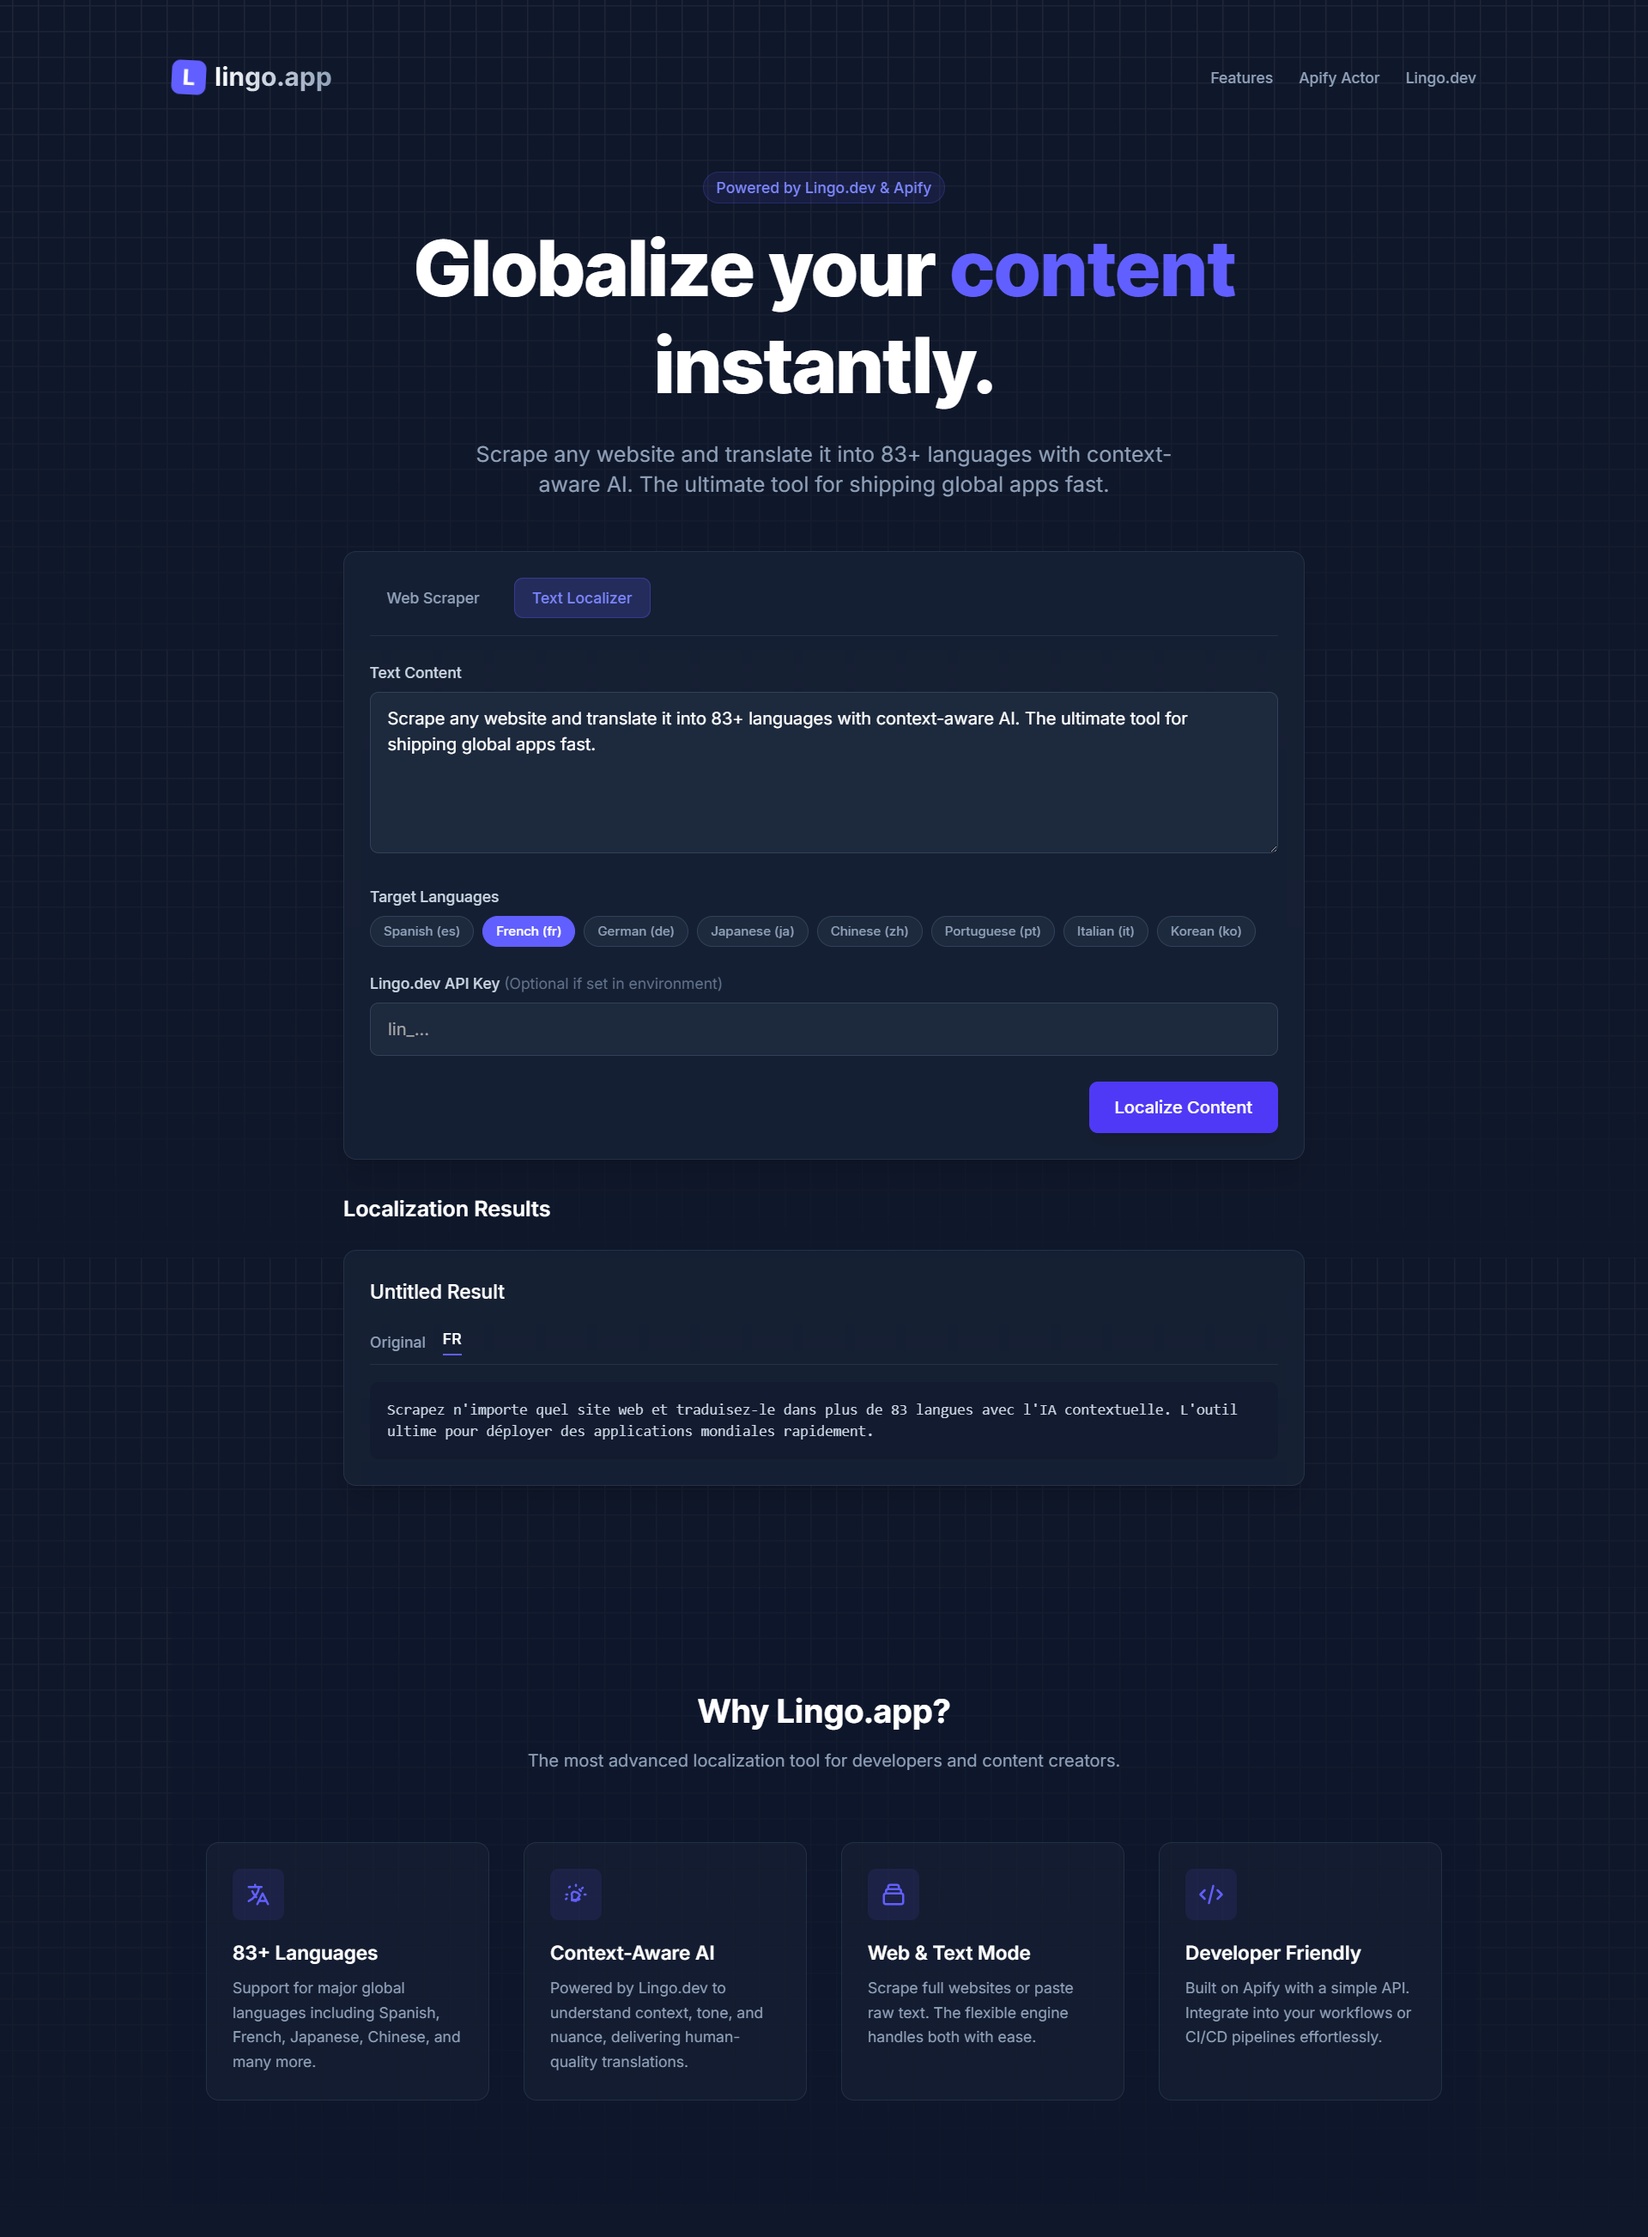
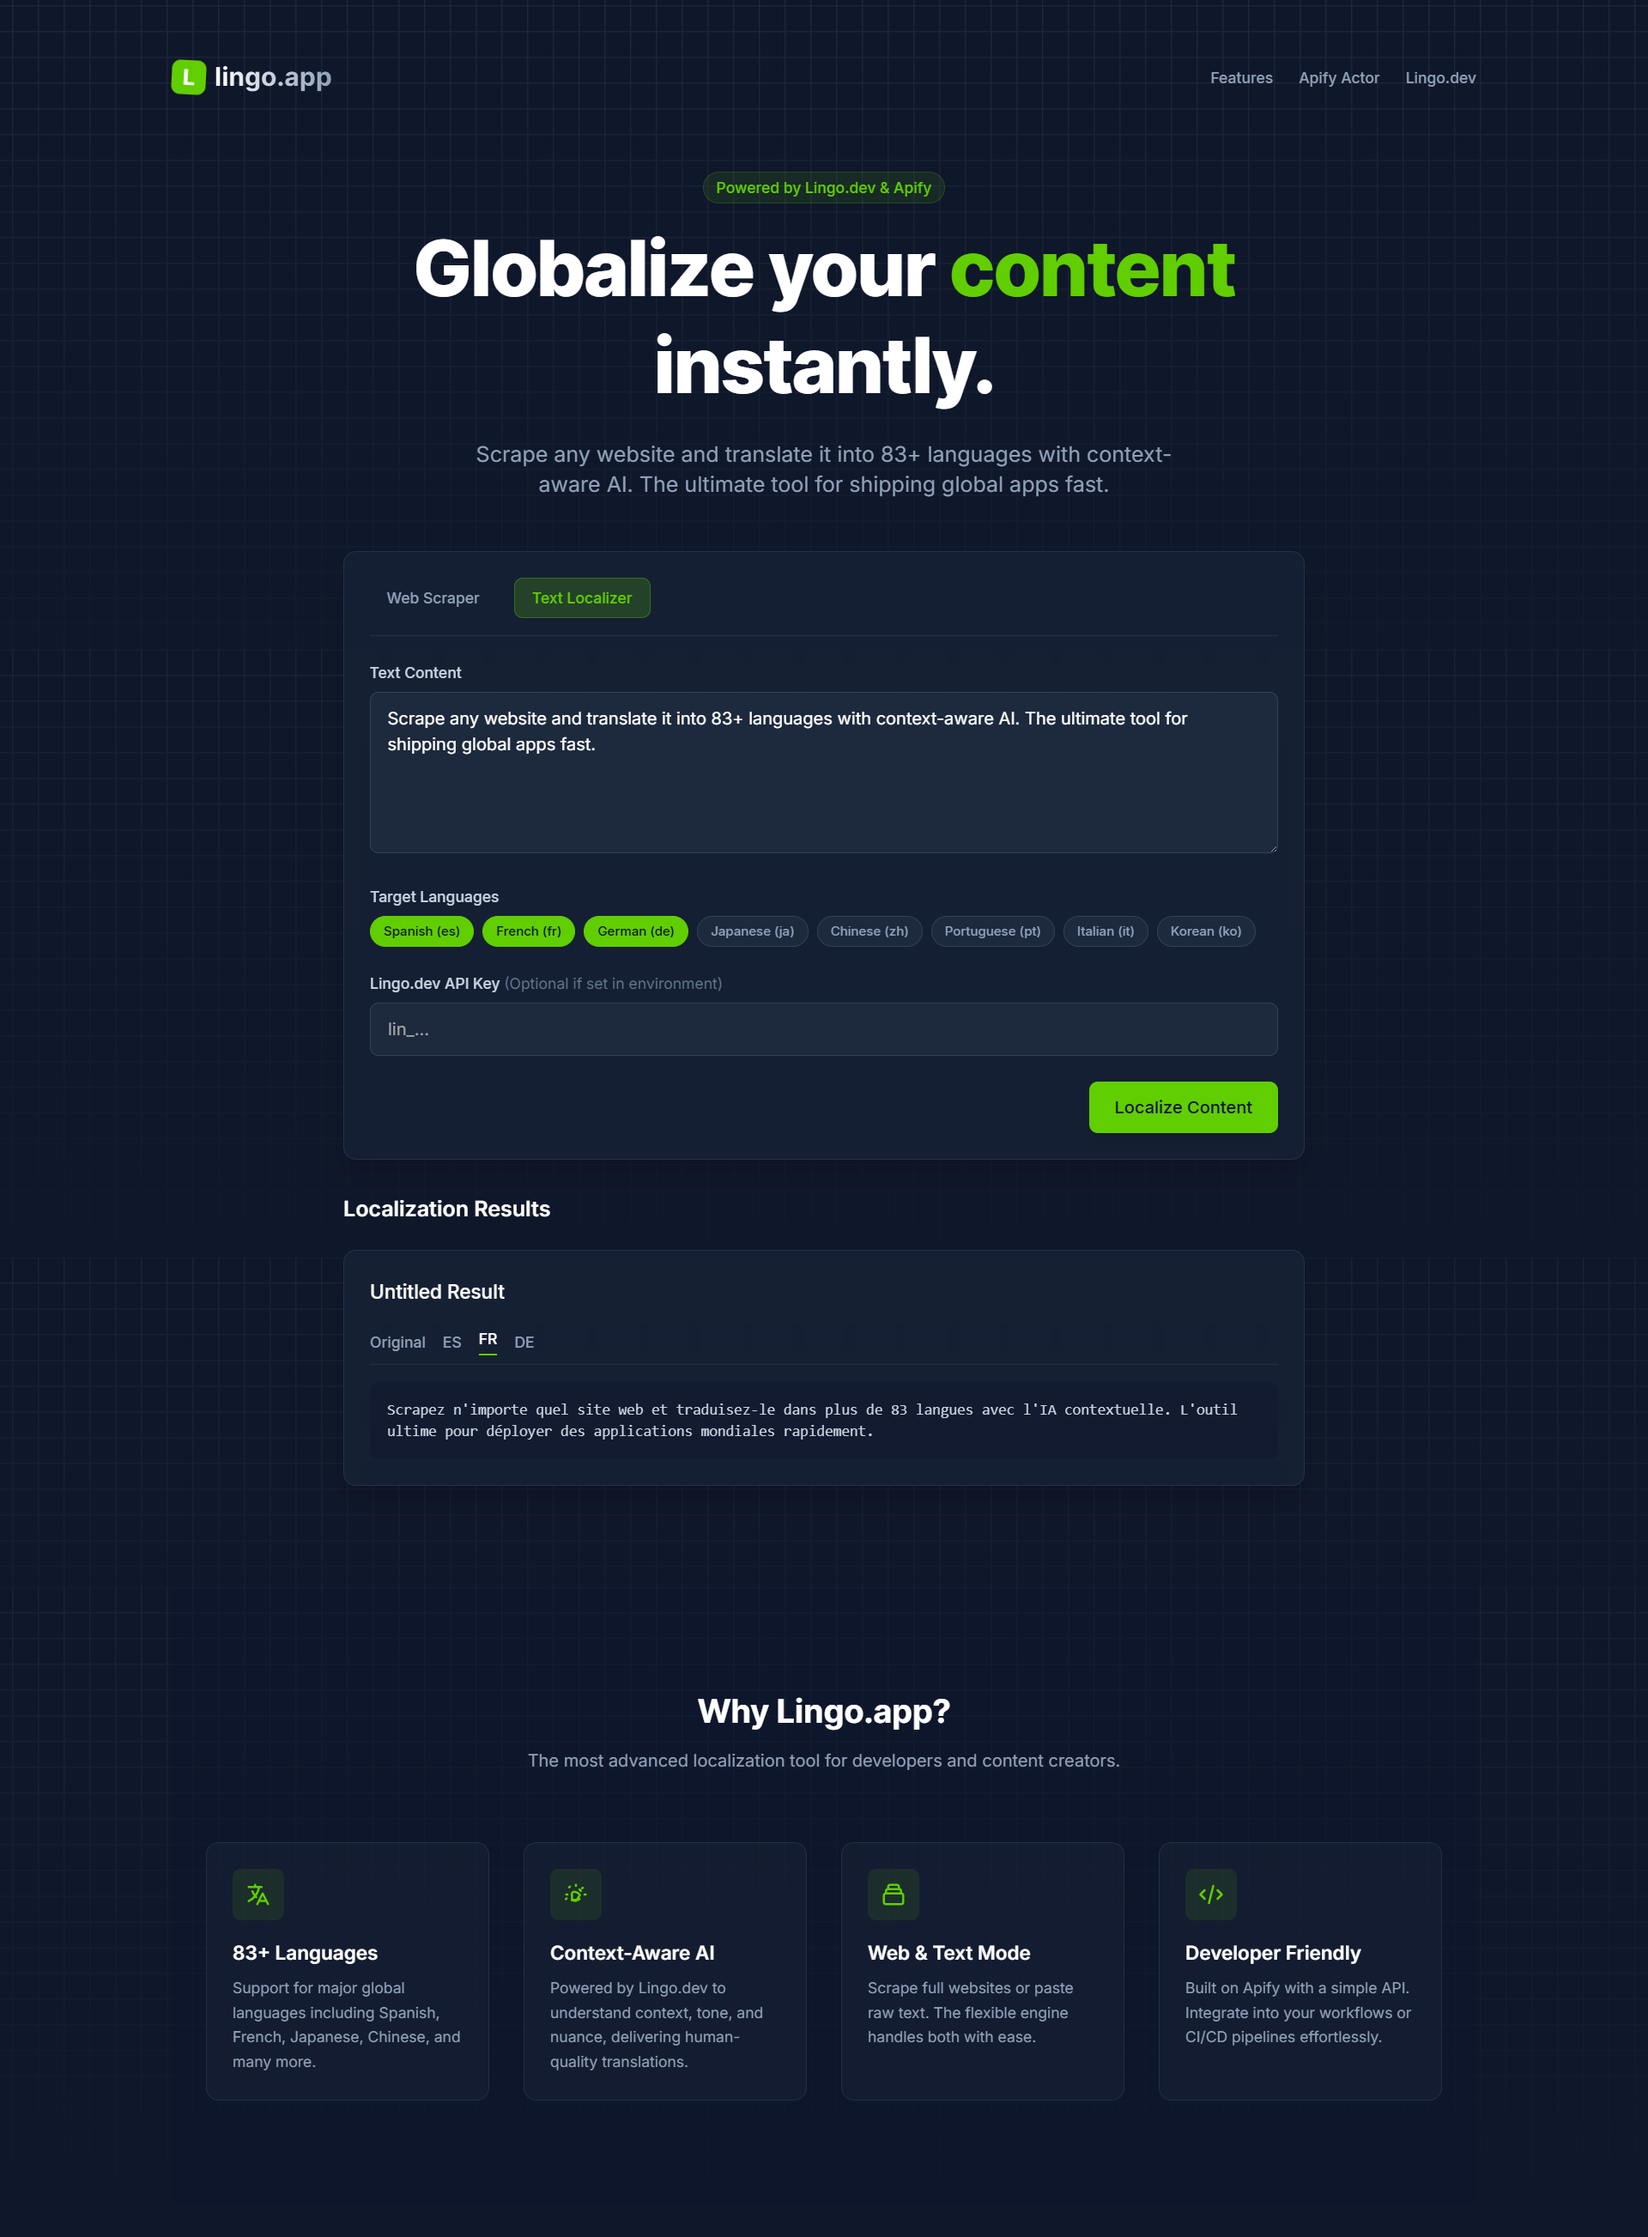
Feat: Update UI to lime

diff --git a/components/LocalizationForm.tsx b/components/LocalizationForm.tsx
@@ -69,13 +69,13 @@ export default function LocalizationForm() {
         <div className="flex space-x-4 mb-6 border-b border-slate-700/50 pb-4">
           <button
             onClick={() => setMode('WEB')}
-            className={`text-sm font-medium px-4 py-2 rounded-lg transition-colors ${mode === 'WEB' ? 'bg-indigo-500/20 text-indigo-400 border border-indigo-500/30' : 'text-slate-400 hover:text-white'}`}
+            className={`text-sm font-medium px-4 py-2 rounded-lg transition-colors ${mode === 'WEB' ? 'bg-lingo/20 text-lingo border border-lingo/30' : 'text-slate-400 hover:text-white'}`}
           >
             Web Scraper
           </button>
           <button
             onClick={() => setMode('TEXT')}
-            className={`text-sm font-medium px-4 py-2 rounded-lg transition-colors ${mode === 'TEXT' ? 'bg-indigo-500/20 text-indigo-400 border border-indigo-500/30' : 'text-slate-400 hover:text-white'}`}
+            className={`text-sm font-medium px-4 py-2 rounded-lg transition-colors ${mode === 'TEXT' ? 'bg-lingo/20 text-lingo border border-lingo/30' : 'text-slate-400 hover:text-white'}`}
           >
             Text Localizer
           </button>
@@ -96,12 +96,18 @@ export default function LocalizationForm() {
             </div>
           ) : (
             <div>
-              <label className="block text-sm font-medium text-slate-300 mb-2">Text Content</label>
+              <div className="flex justify-between items-center mb-2">
+                <label className="block text-sm font-medium text-slate-300">Text Content</label>
+                <span className={`text-xs ${textInput.length >= 500 ? 'text-red-400' : 'text-slate-500'}`}>
+                  {textInput.length}/500
+                </span>
+              </div>
               <textarea
                 placeholder="Paste your text here to localize..."
                 className="input-field min-h-[150px]"
                 value={textInput}
-                onChange={(e) => setTextInput(e.target.value)}
+                onChange={(e) => setTextInput(e.target.value.slice(0, 500))}
+                maxLength={500}
                 required={mode === 'TEXT'}
               />
             </div>
@@ -116,7 +122,7 @@ export default function LocalizationForm() {
                   type="button"
                   onClick={() => toggleLang(lang.code)}
                   className={`px-3 py-1.5 rounded-full text-xs font-medium border transition-colors ${selectedLangs.includes(lang.code)
-                    ? 'bg-indigo-500 text-white border-indigo-500'
+                    ? 'bg-lingo text-slate-900 border-lingo'
                     : 'bg-slate-800 text-slate-400 border-slate-700 hover:border-slate-600'
                     }`}
                 >
@@ -188,13 +194,13 @@ function ResultCard({ item }: { item: any }) {
     <div className="card overflow-hidden">
       <div className="mb-4">
         <h4 className="text-lg font-medium text-white mb-1">{item.title || 'Untitled Result'}</h4>
-        <a href={item.url} target="_blank" className="text-sm text-indigo-400 hover:text-indigo-300 truncate block">{item.url}</a>
+        <a href={item.url} target="_blank" className="text-sm text-lingo hover:text-lingo-hover truncate block">{item.url}</a>
       </div>
 
       <div className="border-b border-slate-700/50 mb-4 flex space-x-4 overflow-x-auto pb-2">
         <button
           onClick={() => setActiveTab('original')}
-          className={`text-sm font-medium whitespace-nowrap transition-colors ${activeTab === 'original' ? 'text-white border-b-2 border-indigo-500 pb-1' : 'text-slate-400 hover:text-slate-300'}`}
+          className={`text-sm font-medium whitespace-nowrap transition-colors ${activeTab === 'original' ? 'text-white border-b-2 border-lingo pb-1' : 'text-slate-400 hover:text-slate-300'}`}
         >
           Original
         </button>
@@ -202,7 +208,7 @@ function ResultCard({ item }: { item: any }) {
           <button
             key={lang}
             onClick={() => setActiveTab(lang)}
-            className={`text-sm font-medium whitespace-nowrap uppercase transition-colors ${activeTab === lang ? 'text-white border-b-2 border-indigo-500 pb-1' : 'text-slate-400 hover:text-slate-300'}`}
+            className={`text-sm font-medium whitespace-nowrap uppercase transition-colors ${activeTab === lang ? 'text-white border-b-2 border-lingo pb-1' : 'text-slate-400 hover:text-slate-300'}`}
           >
             {lang}
           </button>

diff --git a/app/layout.tsx b/app/layout.tsx
@@ -16,12 +16,12 @@ export default function RootLayout({
 }) {
   return (
     <html lang="en">
-      <body className={`${inter.className} min-h-screen bg-gradient-to-br from-slate-900 via-slate-900 to-indigo-950 selection:bg-indigo-500/30`}>
+      <body className={`${inter.className} min-h-screen bg-gradient-to-br from-slate-900 via-slate-900 to-slate-950 selection:bg-lingo/30`}>
         <div className="fixed inset-0 bg-[url('/grid.svg')] bg-center [mask-image:linear-gradient(180deg,white,rgba(255,255,255,0))]" />
         <main className="relative z-10 w-full max-w-7xl mx-auto px-4 sm:px-6 lg:px-8 py-8">
           <header className="flex justify-between items-center py-6 mb-12">
             <div className="flex items-center space-x-2">
-              <div className="w-8 h-8 bg-indigo-500 rounded-lg flex items-center justify-center transform rotate-3">
+              <div className="w-8 h-8 bg-lingo rounded-lg flex items-center justify-center transform rotate-3">
                 <span className="text-xl font-bold text-white">L</span>
               </div>
               <span className="text-2xl font-bold bg-clip-text text-transparent bg-gradient-to-r from-white to-slate-400">lingo.app</span>

diff --git a/app/globals.css b/app/globals.css
@@ -1,5 +1,10 @@
 @import "tailwindcss";
 
+@theme {
+  --color-lingo: #60CE01;
+  --color-lingo-hover: #4db301;
+}
+
 :root {
   --background: #0f172a;
   /* Slate 900 */
@@ -35,11 +40,11 @@ button:visited {
 
 @layer components {
   .btn-primary {
-    @apply px-6 py-3 bg-indigo-600 hover:bg-indigo-500 text-white rounded-lg font-medium transition-all duration-200 shadow-lg hover:shadow-indigo-500/30 active:scale-95 disabled:opacity-50 disabled:cursor-not-allowed;
+    @apply px-6 py-3 bg-lingo hover:bg-lingo-hover text-slate-900 rounded-lg font-medium transition-all duration-200 shadow-lg hover:shadow-lingo/30 active:scale-95 disabled:opacity-50 disabled:cursor-not-allowed;
   }
 
   .input-field {
-    @apply w-full bg-slate-800 border border-slate-700 rounded-lg px-4 py-3 text-white placeholder-slate-400 focus:outline-none focus:ring-2 focus:ring-indigo-500 focus:border-transparent transition-all;
+    @apply w-full bg-slate-800 border border-slate-700 rounded-lg px-4 py-3 text-white placeholder-slate-400 focus:outline-none focus:ring-2 focus:ring-lingo focus:border-transparent transition-all;
   }
 
   .card {

diff --git a/components/Hero.tsx b/components/Hero.tsx
@@ -3,11 +3,11 @@ import React from 'react';
 export default function Hero() {
   return (
     <div className="text-center max-w-3xl mx-auto space-y-6">
-      <div className="inline-flex items-center space-x-2 px-3 py-1 rounded-full bg-indigo-500/10 border border-indigo-500/20 text-indigo-400 text-sm font-medium mb-4">
+      <div className="inline-flex items-center space-x-2 px-3 py-1 rounded-full bg-lingo/10 border border-lingo/20 text-lingo text-sm font-medium mb-4">
         <span>Powered by Lingo.dev & Apify</span>
       </div>
       <h1 className="text-5xl md:text-7xl font-extrabold tracking-tight text-white leading-tight">
-        Globalize your <span className="text-indigo-500">content</span> instantly.
+        Globalize your <span className="text-lingo">content</span> instantly.
       </h1>
       <p className="text-lg md:text-xl text-slate-400 max-w-2xl mx-auto">
         Scrape any website and translate it into 83+ languages with context-aware AI.

diff --git a/components/Features.tsx b/components/Features.tsx
@@ -50,7 +50,7 @@ export default function Features() {
         <div className="grid grid-cols-1 md:grid-cols-2 lg:grid-cols-4 gap-8">
           {features.map((feature, idx) => (
             <div key={idx} className="bg-slate-800/30 p-6 rounded-xl border border-slate-700/50 hover:bg-slate-800/50 transition-colors">
-              <div className="w-12 h-12 bg-indigo-500/10 rounded-lg flex items-center justify-center text-indigo-500 mb-4">
+              <div className="w-12 h-12 bg-lingo/10 rounded-lg flex items-center justify-center text-lingo mb-4">
                 {feature.icon}
               </div>
               <h3 className="text-lg font-semibold text-white mb-2">{feature.title}</h3>

diff --git a/README.md b/README.md
@@ -44,5 +44,5 @@ A premium AI-powered localization tool built with Next.js, TailwindCSS, and [Api
 ## Credits
 
 - Built by [Eunit](https://eunit.me)
-- Read the detailed article on [Eunit.me]()
+- Read the detailed article on [Eunit.me](build-a-global-internationalization-i18n-app-with-nextjs-and-ai)
 - Powered by [Apify](https://apify.com) & [Lingo.dev](https://lingo.dev)
